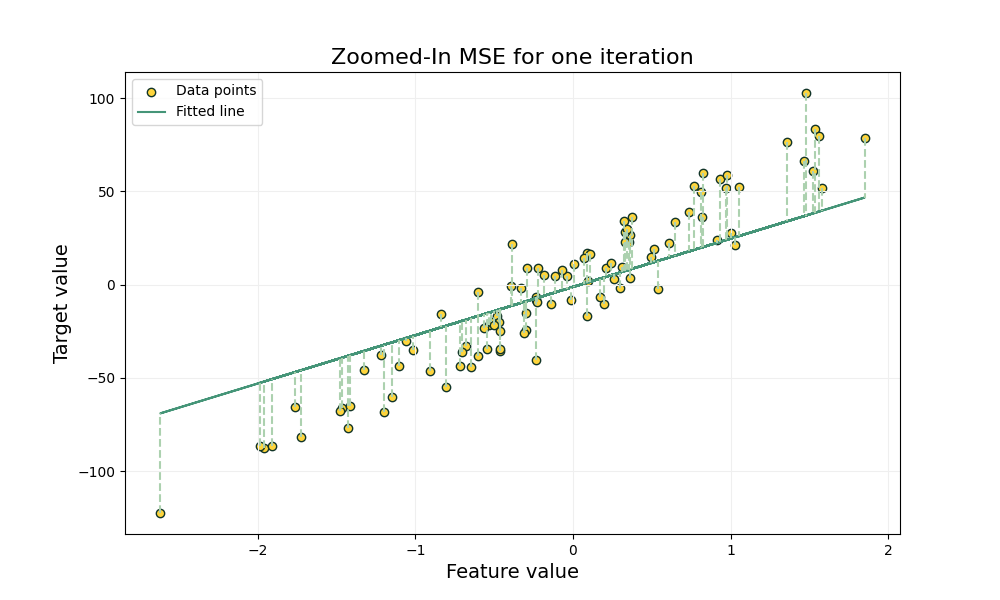
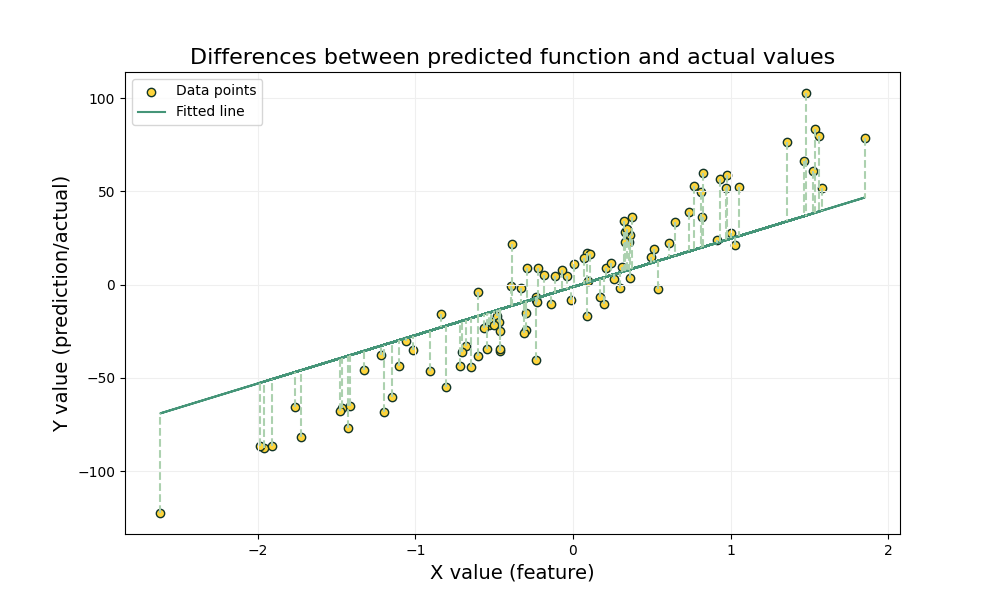
small improvements to the plot

diff --git a/CCPlots/implementation/MSEZoomExample.py b/CCPlots/implementation/MSEZoomExample.py
@@ -19,16 +19,28 @@ class MSEZoomExample(PlotExample):
     mint_green = COLOR_PALETTE['accent_colors']['mint_green']
     light_gray = COLOR_PALETTE['neutral_colors']['light_gray']
 
+    # Array for the final predictions
+    y_pred = None
+
     def __init__(self, n_samples=100, learning_rate=0.01):
         self.n_samples = n_samples
         self.learning_rate = learning_rate
 
         # Generate synthetic data for regression
-        self.X, self.y = make_regression(n_samples=self.n_samples, n_features=1, noise=15, random_state=42)
+        self.X, self.y = make_regression(
+            n_samples=self.n_samples,
+            n_features=1,
+            noise=15,
+            random_state=42)
 
         # Initialize the model
-        self.model = SGDRegressor(max_iter=1, tol=None, learning_rate='constant', eta0=self.learning_rate,
-                                  random_state=42)
+        self.model = SGDRegressor(
+            max_iter=1,
+            tol=None,
+            learning_rate='constant',
+            eta0=self.learning_rate,
+            random_state=42
+        )
 
     def main(self):
         """Main method to train and plot the MSE zoom."""
@@ -55,9 +67,9 @@ class MSEZoomExample(PlotExample):
             plt.plot([self.X[i], self.X[i]], [self.y[i], self.y_pred[i]], color=self.mint_green, linestyle='--')
 
         # Title and labels
-        plt.title('Zoomed-In MSE for one iteration', fontsize=16)
-        plt.xlabel('Feature value', fontsize=14)
-        plt.ylabel('Target value', fontsize=14)
+        plt.title('Differences between predicted function and actual values', fontsize=16)
+        plt.xlabel("X value (feature)", fontsize=14)
+        plt.ylabel("Y value (prediction/actual)", fontsize=14)
 
         # Light gray grid
         plt.grid(True, color=self.light_gray)
